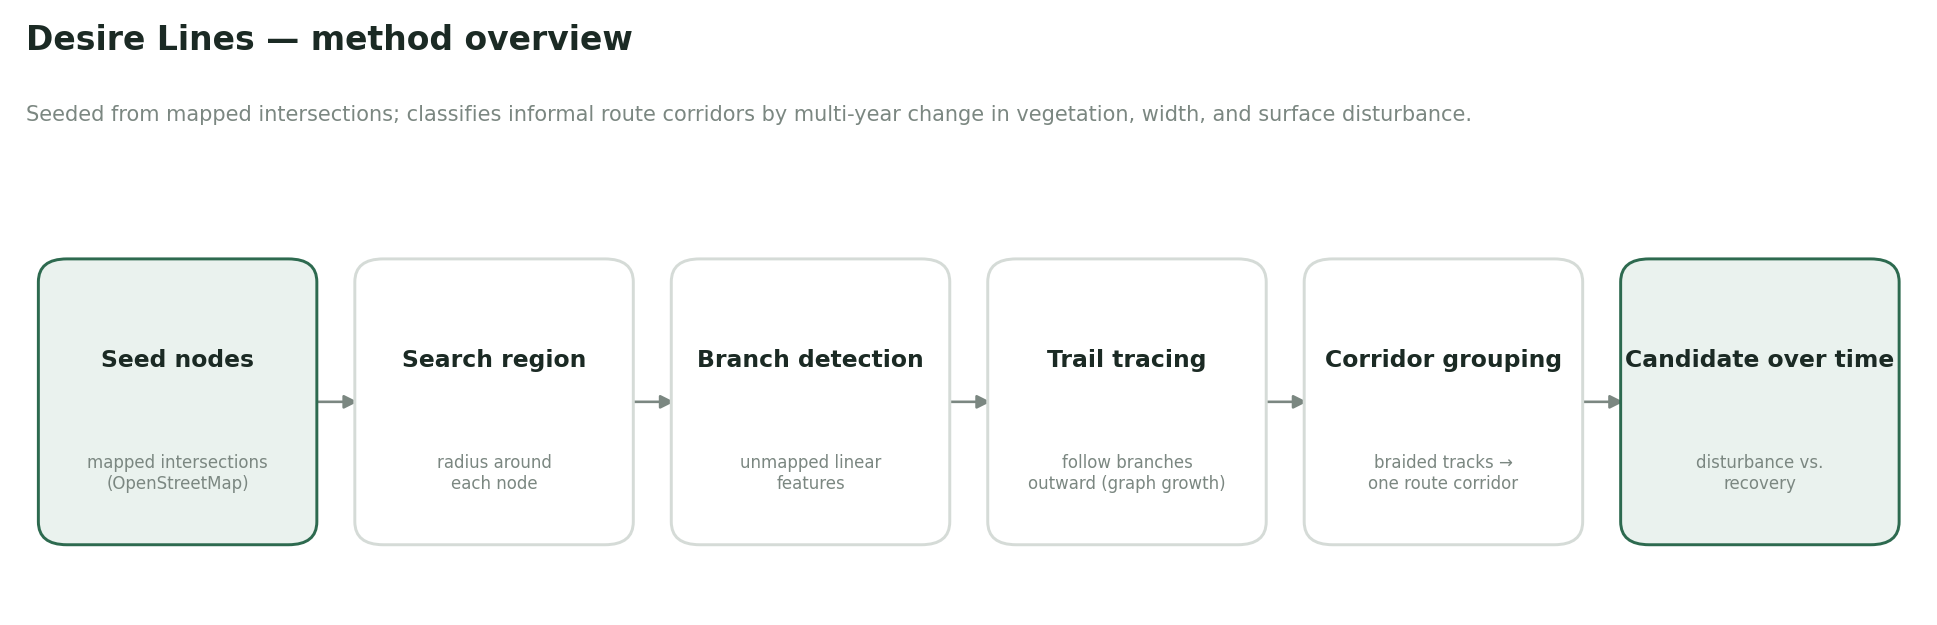
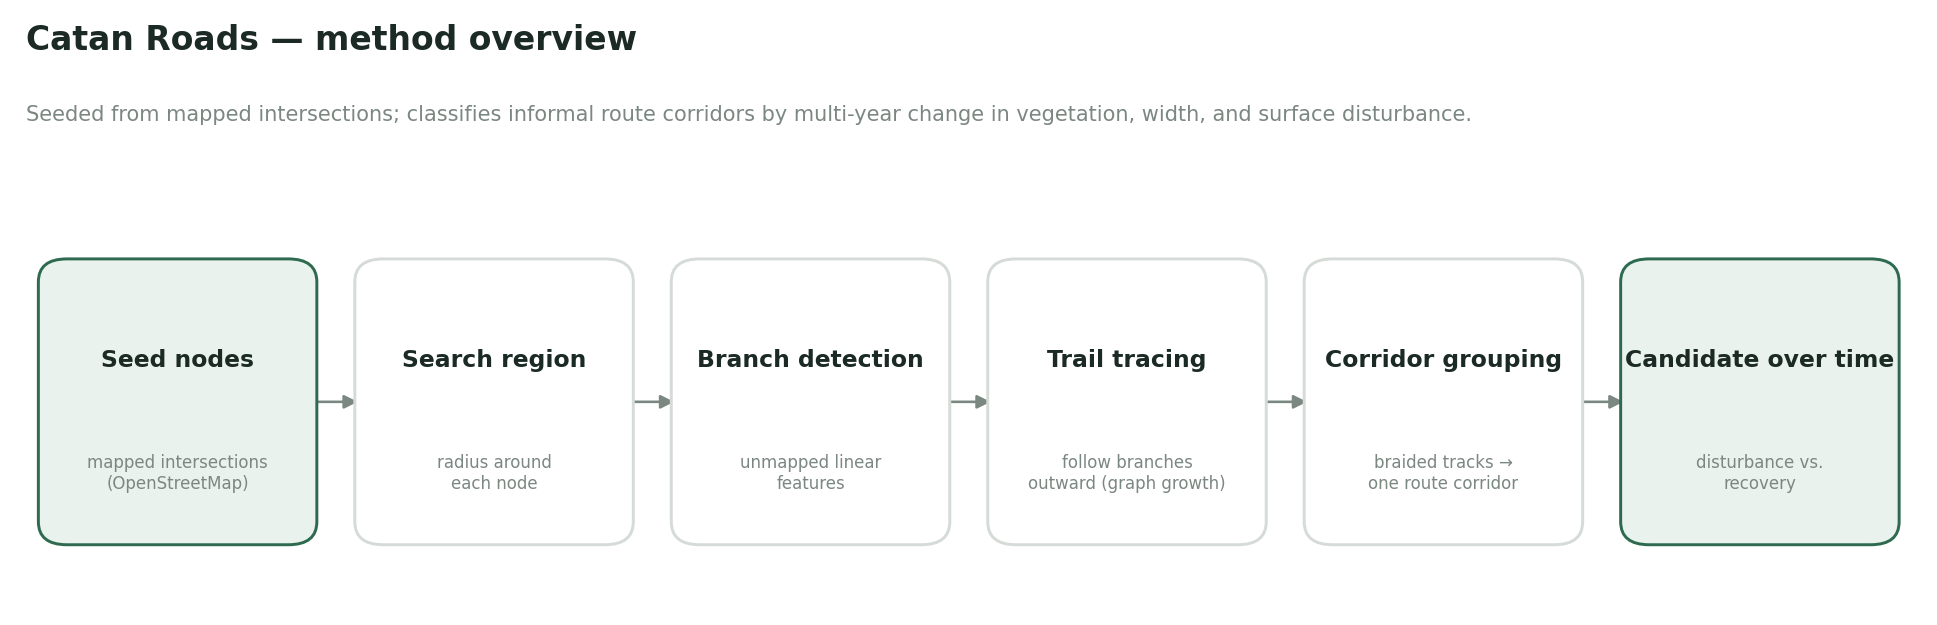
Make the Catan Roads name consistent across docs, script, and diagram

Changed region(s): [[0.0, 0.0304, 0.3407, 0.0912]]

diff --git a/gee/ndvi_change.js b/gee/ndvi_change.js
@@ -1,5 +1,5 @@
 /**
- * Desire Lines — composite surface-disturbance change (Phase 1)
+ * Catan Roads — composite surface-disturbance change (Phase 1)
  * ------------------------------------------------------------
  * Paste into the Earth Engine Code Editor: https://code.earthengine.google.com/
  *

diff --git a/README.md b/README.md
@@ -19,7 +19,7 @@ widen, braid into parallel ruts, and revegetate when disused. Detecting them
 matters for logistics and transport planning, disaster response, connectivity
 mapping for herder communities, and monitoring the footprint of off-road travel.
 
-Desire Lines is **not** an NDVI road classifier. A single vehicle track is
+Catan Roads is **not** an NDVI road classifier. A single vehicle track is
 ~2.5–3 m wide and therefore **sub-pixel** at Sentinel-2's 10 m resolution. So the
 method targets what a medium-resolution sensor *can* honestly resolve:
 **persistent, corridor-scale surface disturbance** — braided corridors, clusters

diff --git a/docs/design.md b/docs/design.md
@@ -1,4 +1,4 @@
-# Design — Desire Lines
+# Design — Catan Roads
 
 This document is the **technical design** for the project — the full methodology
 that the current early-stage tooling (see the README) is built toward. It is
